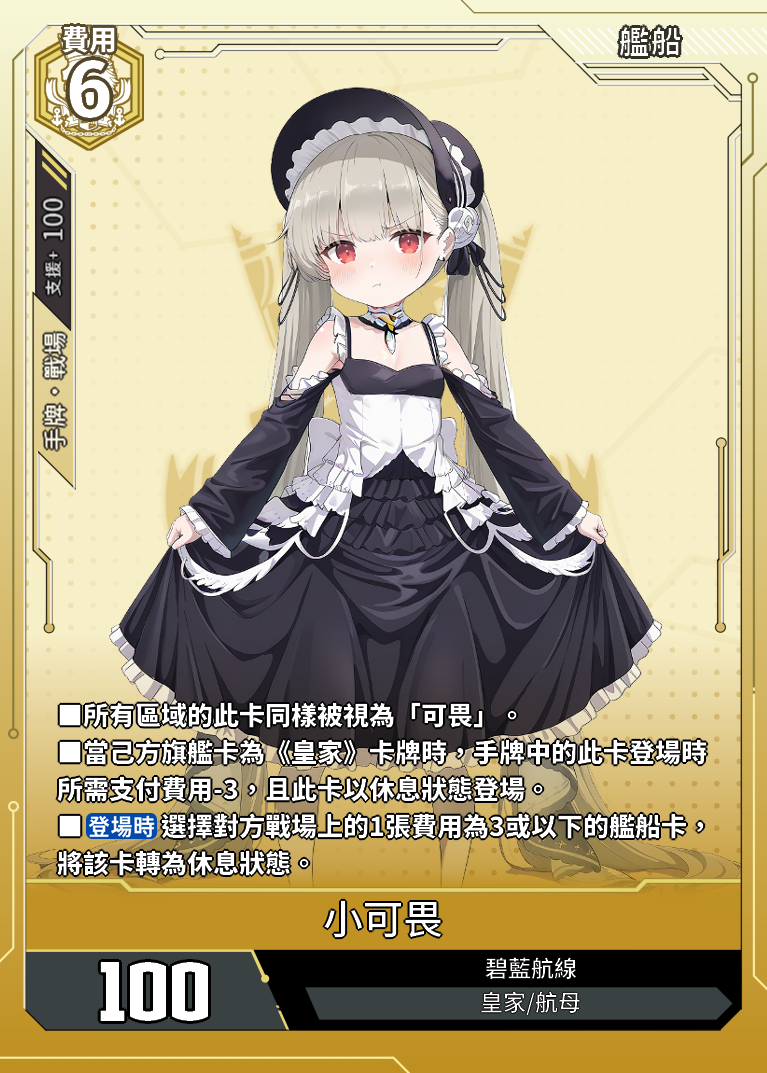
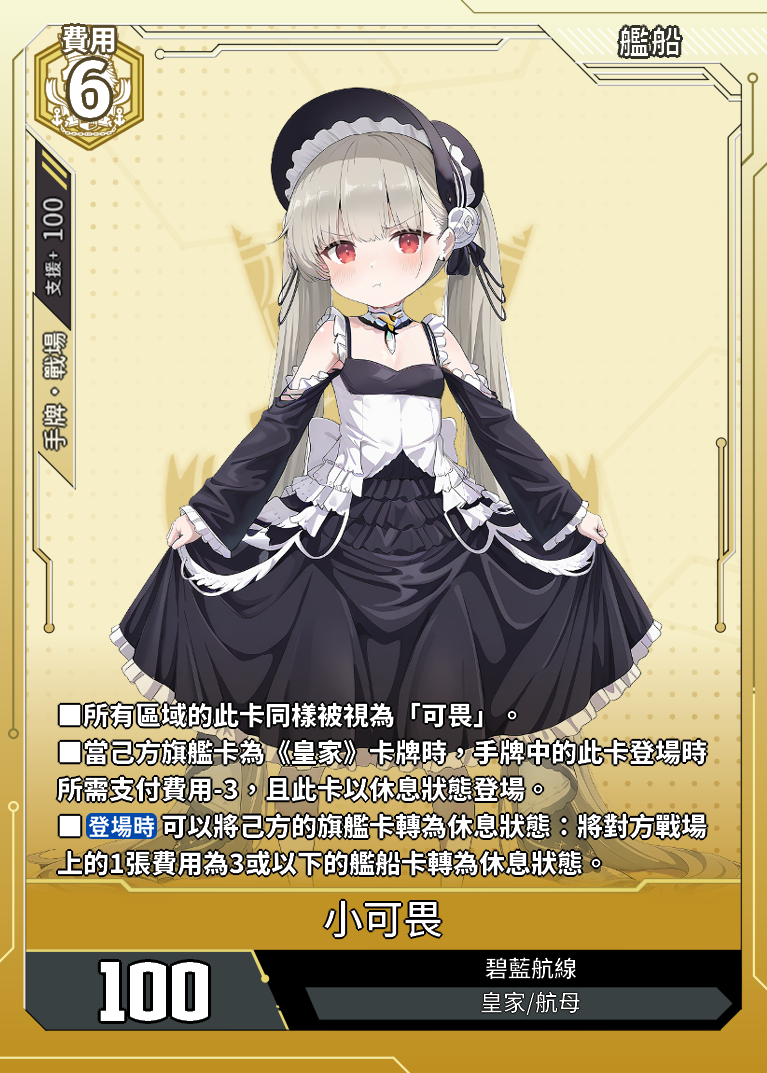
修改小可畏、能代u、胡滕

Changed region(s): [[0.06, 0.7381, 0.9296, 0.8304]]

diff --git a/data.js b/data.js
@@ -23910,15 +23910,15 @@ const cards = [
             "顏　色": "紅",
             "種　類": "艦船卡",
             "費　用": "4",
-            "戰　力": "500",
+            "戰　力": "600",
             "陣　營": "重櫻",
             "艦船類型": "重巡",
             "罕　貴": "-",
             "勢　力": "赤色中軸",
-            "支援範圍": "手牌·戰場",
+            "支援範圍": "手牌",
             "支援值": "100"
         },
-        "card_effect": "■【強擊+100】■【登場時】可以捨棄1張名稱中帶有「μ兵裝」的卡牌：對方捨棄1張手牌。",
+        "card_effect": "■【登場時】當對方手牌數量為7張或以上時，對方捨棄1張手牌。之後，當此時為對方回合，且己方戰場上存在5張或以上名稱中帶有「μ兵裝」的卡牌時，對方捨棄1張手牌。",
         "acquisition_method": "CE02-早期測試"
     },
 	{
@@ -24944,7 +24944,7 @@ const cards = [
             "支援範圍": "手牌·戰場",
             "支援值": "100"
         },
-        "card_effect": "■所有區域的此卡同樣被視為「可畏」。■當己方旗艦卡為《皇家》卡牌時，手牌中的此卡登場時所需支付費用-3，且此卡以休息狀態登場。■【登場時】選擇對方戰場上的1張費用為3或以下的艦船卡，將該卡轉為休息狀態。",
+        "card_effect": "■所有區域的此卡同樣被視為「可畏」。■當己方旗艦卡為《皇家》卡牌時，手牌中的此卡登場時所需支付費用-3，且此卡以休息狀態登場。■【登場時】可以將己方的旗艦卡轉為休息狀態：將對方戰場上的1張費用為3或以下的艦船卡轉為休息狀態。",
         "acquisition_method": "CE02-早期測試"
     },
 	{
@@ -25077,7 +25077,7 @@ const cards = [
             "支援範圍": "手牌",
             "支援值": "100"
         },
-        "card_effect": "■當己方戰場上存在除此卡以外的「烏爾里希·馮·胡滕」艦船卡時，此卡不能攻擊。■當己方撤退區存在30張或以上卡牌時，戰場上的此卡獲得【速攻】。■【己方回合結束時】將戰場上的此卡彈回手牌。",
+        "card_effect": "■當己方戰場上存在除此卡以外的「烏爾里希·馮·胡滕」艦船卡時，此卡不能攻擊。■【登場時】當此卡從手牌登場且己方撤退區存在30張或以上卡牌時，戰場上的此卡獲得【速攻】。■【己方回合結束時】將戰場上的此卡彈回手牌。",
         "acquisition_method": "CE02-早期測試"
     },
 	{
